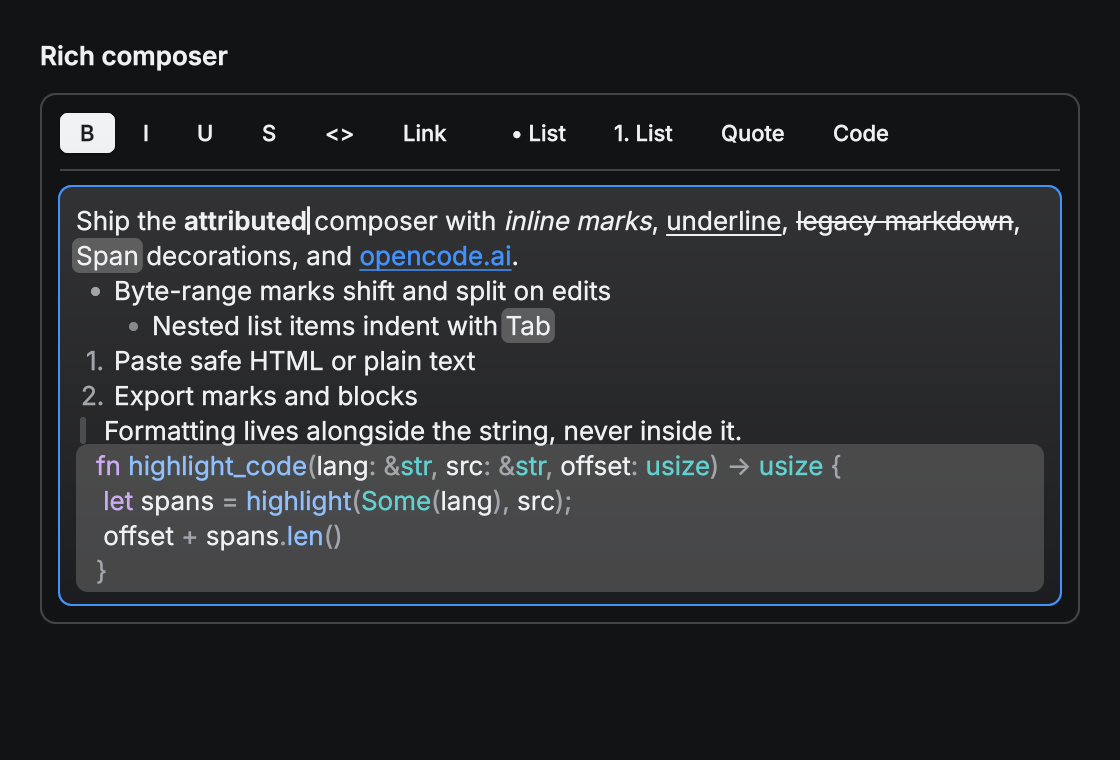
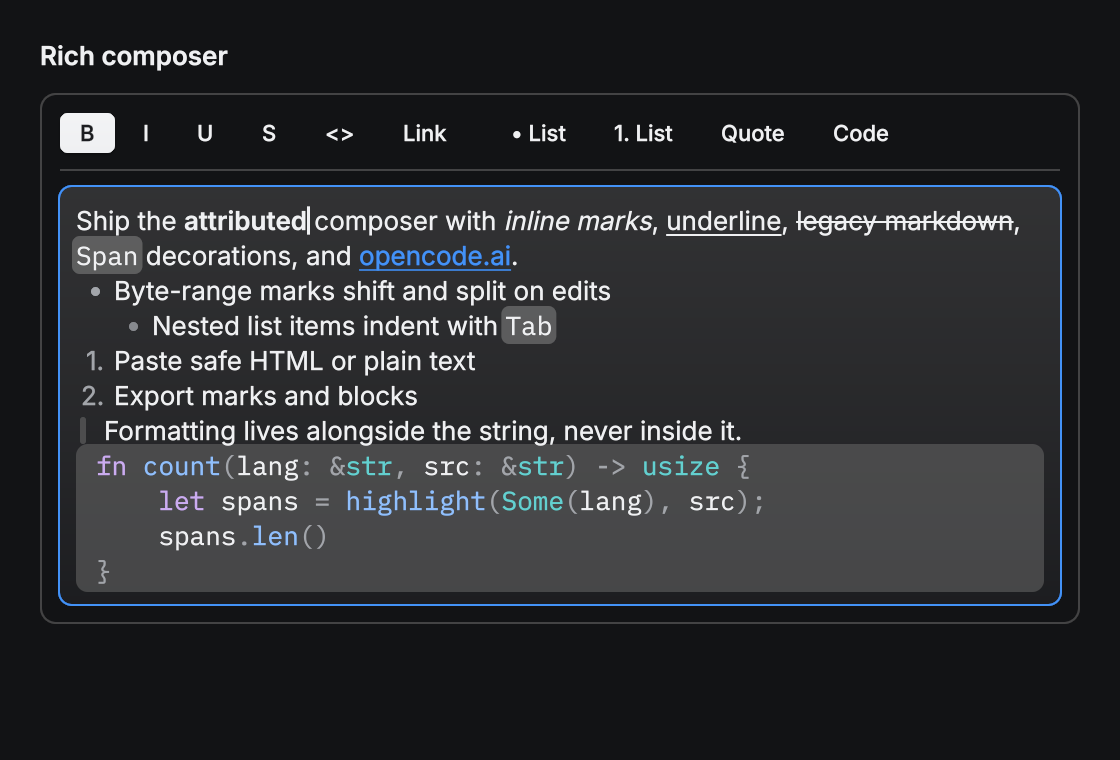
text: monospace code without ligatures, tabs to 4-column stops

diff --git a/crates/rune/src/text.rs b/crates/rune/src/text.rs
@@ -1078,6 +1078,43 @@ fn variations(style: TextStyle, size: f32) -> Vec<parley::FontVariation> {
     settings
 }
 
+/// The byte of each tab in monospace text (mono spans, or all of it in a mono style) with the
+/// columns it fills to reach the next 4-column stop. Columns count from the start of the line
+/// or of the monospace run, whichever is later.
+fn mono_tab_stops(text: &str, spans: &[Span], mono_style: bool) -> Vec<(usize, u32)> {
+    let mut regions: Vec<(usize, usize)> = if mono_style {
+        vec![(0, text.len())]
+    } else {
+        let mut r: Vec<_> = spans.iter().filter(|s| s.mono && s.start < s.end).map(|s| (s.start as usize, (s.end as usize).min(text.len()))).collect();
+        r.sort_unstable();
+        r
+    };
+    regions.dedup_by(|next, prev| {
+        let joined = next.0 <= prev.1;
+        if joined {
+            prev.1 = prev.1.max(next.1);
+        }
+        joined
+    });
+    let mut out = Vec::new();
+    for (start, end) in regions {
+        let Some(run) = text.get(start..end) else { continue };
+        let mut column = 0u32;
+        for (i, ch) in run.char_indices() {
+            match ch {
+                '\n' => column = 0,
+                '\t' => {
+                    let fill = 4 - column % 4;
+                    out.push((start + i, fill));
+                    column += fill;
+                }
+                _ => column += 1,
+            }
+        }
+    }
+    out
+}
+
 impl TextSystem {
     /// `fonts` replaces the built-in Inter faces when non-empty on native. Web keeps its
     /// bundled sans and mono fallbacks, since there are no system fonts to discover.
@@ -1234,8 +1271,11 @@ impl TextSystem {
         }
         self.shaped += 1;
         let _shape_time = crate::frame_profile::Scope::new(crate::frame_profile::Phase::Text);
+        let mono_style = matches!(style.family, Family::Mono | Family::SystemMono);
+        let tabs = if text.contains('\t') { mono_tab_stops(text, spans, mono_style) } else { Vec::new() };
         // Parley has no tab stops and fonts draw a tab as a missing glyph (or nothing): shape it
-        // as a space, one byte like the tab, so every byte range still holds.
+        // as a space, one byte like the tab, so every byte range still holds. Monospace tabs
+        // then widen to the next 4-column stop through word spacing.
         let spaced;
         let text = if text.contains('\t') {
             spaced = text.replace('\t', " ");
@@ -1345,7 +1385,11 @@ impl TextSystem {
         }
         let span_range = |s: &Span| (s.start as usize).min(text.len())..(s.end as usize).min(text.len());
         // `exact` overrides the predicted spacing with each run's own, by byte range.
-        let build = |lcx: &mut LayoutContext<Ink>, fcx: &mut FontContext, exact: &[(std::ops::Range<usize>, f32)]| {
+        // Code never takes ligatures (`->` stays two characters); later features override earlier.
+        let off = [b"liga", b"clig", b"calt"].map(|tag| parley::FontFeature::new(parley::setting::Tag::new(tag), 0));
+        let unligated: Vec<parley::FontFeature> = features.iter().chain(&off).copied().collect();
+        type Spacings = [(std::ops::Range<usize>, f32)];
+        let build = |lcx: &mut LayoutContext<Ink>, fcx: &mut FontContext, exact: &Spacings, widen: &Spacings| {
             let mut b = lcx.ranged_builder(fcx, text, scale, true);
             b.push_default(FontFamily::from(sans.as_slice()));
             b.push_default(StyleProperty::FontSize(style.size));
@@ -1356,7 +1400,9 @@ impl TextSystem {
             // Parley turns optional ligatures off under letter spacing; Core Text's tracking
             // keeps them, so spacing that only corrects `trak` turns them back on.
             let corrected = base_spacing != 0.0 || span_spacing.iter().flatten().chain(exact.iter().map(|e| &e.1)).any(|&v| v != 0.0);
-            if style.tracking == 0.0 && corrected {
+            if mono_style {
+                b.push_default(StyleProperty::FontFeatures(unligated.as_slice().into()));
+            } else if style.tracking == 0.0 && corrected {
                 let ligatures = [b"liga", b"clig"].map(|tag| parley::FontFeature::new(parley::setting::Tag::new(tag), 1));
                 let list = ligatures.iter().chain(&features).copied().collect();
                 b.push_default(StyleProperty::FontFeatures(parley::FontFeatures::List(std::borrow::Cow::Owned(list))));
@@ -1381,6 +1427,7 @@ impl TextSystem {
                 b.push(StyleProperty::Brush(Ink(i as u16 + 1)), r.clone());
                 if s.mono {
                     b.push(FontFamily::from(mono.as_slice()), r.clone());
+                    b.push(StyleProperty::FontFeatures(unligated.as_slice().into()), r.clone());
                 }
                 if let Some(w) = s.weight {
                     b.push(StyleProperty::FontWeight(FontWeight::new(w)), r.clone());
@@ -1404,6 +1451,9 @@ impl TextSystem {
             for (range, v) in exact {
                 b.push(StyleProperty::LetterSpacing(*v), range.clone());
             }
+            for (range, v) in widen {
+                b.push(StyleProperty::WordSpacing(*v), range.clone());
+            }
             let mut layout: Layout<Ink> = b.build(text);
             if has_indented_blocks {
                 break_lines_with_blocks(&mut layout, blocks, style.size, scale, max_width);
@@ -1412,7 +1462,7 @@ impl TextSystem {
             }
             layout
         };
-        let mut layout = build(&mut self.layout_cx, &mut self.font_cx, &[]);
+        let mut layout = build(&mut self.layout_cx, &mut self.font_cx, &[], &[]);
         // The spacing each run got, against the spacing its own font needs.
         let given = |at: usize| {
             spans.iter().zip(&span_spacing).rev().find_map(|(s, v)| v.filter(|_| span_range(s).contains(&at))).unwrap_or(base_spacing)
@@ -1435,8 +1485,23 @@ impl TextSystem {
                 }
             }
         }
-        if mismatch {
-            layout = build(&mut self.layout_cx, &mut self.font_cx, &exact);
+        if !mismatch {
+            exact.clear();
+        } else {
+            layout = build(&mut self.layout_cx, &mut self.font_cx, &exact, &[]);
+        }
+        if !tabs.is_empty() {
+            // A tab shaped as a space is one column wide; word spacing adds the rest of its stop.
+            let widen: Vec<_> = tabs
+                .iter()
+                .filter_map(|&(at, columns)| {
+                    let column = parley::Cluster::from_byte_index(&layout, at)?.advance();
+                    (column > 0.0 && columns > 1).then(|| (at..at + 1, (columns - 1) as f32 * column / scale))
+                })
+                .collect();
+            if !widen.is_empty() {
+                layout = build(&mut self.layout_cx, &mut self.font_cx, &exact, &widen);
+            }
         }
         layout.align(align, AlignmentOptions::default());
         let l = Rc::new(layout);
@@ -1858,8 +1923,62 @@ mod tests {
     fn a_tab_draws_as_a_space() {
         assert_eq!(glyph_ids("a\tb"), glyph_ids("a b"));
         let mut ts = TextSystem::default();
+        let sans = TextStyle::new(13.0, 400.0);
+        assert_eq!(ts.measure("\tx", sans, 2.0), ts.measure(" x", sans, 2.0));
+    }
+
+    /// In monospace text (a mono style or mono spans) a tab reaches the next 4-column stop,
+    /// counted from the line or the mono run, and stays one byte.
+    #[test]
+    fn mono_tabs_fill_to_four_column_stops() {
+        let mut ts = TextSystem::default();
         let mono = TextStyle::new(13.0, 400.0).family(Family::Mono);
-        assert_eq!(ts.measure("\tx", mono, 2.0), ts.measure(" x", mono, 2.0));
+        let width = |ts: &mut TextSystem, text: &str, spans: &[Span], style: TextStyle| ts.layout_rich(text, spans, style, 2.0, None).full_width();
+        for (tabbed, spaced) in [("\tx", "    x"), ("ab\tx", "ab  x"), ("abc\tx", "abc x"), ("abcd\tx", "abcd    x"), ("\t\tx", "        x"), ("  \tx", "    x")] {
+            let (a, b) = (width(&mut ts, tabbed, &[], mono), width(&mut ts, spaced, &[], mono));
+            assert!((a - b).abs() < 0.01, "{tabbed:?}: {a} vs {spaced:?}: {b}");
+        }
+        // A mono span counts from its own start, and from each line in it.
+        let sans = TextStyle::new(13.0, 400.0);
+        let span = |text: &str, from: usize| [Span::new(from, text.len()).mono()];
+        let (tabbed, spaced) = ("Run a\tb", "Run a   b");
+        let (a, b) = (width(&mut ts, tabbed, &span(tabbed, 4), sans), width(&mut ts, spaced, &span(spaced, 4), sans));
+        assert!((a - b).abs() < 0.01, "{a} vs {b}");
+        let layout = ts.layout_rich("x\n\ty", &span("x\n\ty", 0), sans, 2.0, None);
+        let y = parley::Cluster::from_byte_index(&layout, 3).unwrap();
+        let spaced = ts.layout_rich("x\n    y", &span("x\n    y", 0), sans, 2.0, None);
+        let y_spaced = parley::Cluster::from_byte_index(&spaced, 6).unwrap();
+        let x = |c: &parley::Cluster<'_, Ink>| c.visual_offset().unwrap_or_default();
+        assert!((x(&y) - x(&y_spaced)).abs() < 0.01, "{} vs {}", x(&y), x(&y_spaced));
+        // Proportional text keeps a tab one space wide.
+        assert_eq!(ts.measure("\tx", sans, 2.0), ts.measure(" x", sans, 2.0));
+    }
+
+    /// Monospace text never takes ligatures or contextual alternates: Inter draws `->` as an
+    /// arrow in prose, but code keeps both characters.
+    #[test]
+    fn mono_text_has_no_ligatures() {
+        let mut ts = TextSystem::default();
+        let ids = |ts: &mut TextSystem, text: &str, spans: &[Span], style: TextStyle| -> Vec<u32> {
+            let layout = ts.layout_rich(text, spans, style, 2.0, None);
+            layout
+                .lines()
+                .flat_map(|line| line.items())
+                .filter_map(|item| match item {
+                    PositionedLayoutItem::GlyphRun(run) => Some(run.glyphs().map(|g| g.id).collect::<Vec<_>>()),
+                    _ => None,
+                })
+                .flatten()
+                .collect()
+        };
+        let sans = TextStyle::new(13.0, 400.0);
+        let mono = sans.family(Family::Mono);
+        let apart: Vec<u32> = ["a", "-", ">", "b"].iter().flat_map(|c| ids(&mut ts, c, &[], mono)).collect();
+        assert_ne!(ids(&mut ts, "a->b", &[], sans), apart, "fixture: Inter's arrow in prose");
+        assert_eq!(ids(&mut ts, "a->b", &[], mono), apart);
+        assert_eq!(ids(&mut ts, "a->b", &[Span::new(0, 4).mono()], sans), apart);
+        // Under `trak` correction too, which turns optional ligatures back on for prose.
+        assert_eq!(ids(&mut ts, "a->b", &[Span::new(0, 4).mono().size(20.0)], sans), apart);
     }
 
     /// `Family::SystemMono` shapes with the platform's monospaced font when one is installed, so

diff --git a/crates/rune-kit/src/markdown.rs b/crates/rune-kit/src/markdown.rs
@@ -38,7 +38,7 @@ use std::ops::Range;
 use std::rc::Rc;
 
 use pulldown_cmark::{Alignment, CodeBlockKind, Event, HeadingLevel, Options, Parser, Tag, TagEnd};
-use rune::{Align, Color, El, Link, LinkPaint, Span, TextStyle, col, el, rich, row, text};
+use rune::{Align, Color, El, Family, Link, LinkPaint, Span, TextStyle, col, el, rich, row, text};
 
 use crate::{Kit, PaletteSeed};
 
@@ -1082,11 +1082,12 @@ fn margins(b: &Block) -> (f32, f32) {
     }
 }
 
-/// Code as rich text with `spans` (byte ranges of `code`). Text layout draws a tab as one space,
-/// so each tab is padded with uncopied spaces to the next four-column stop: lines line up and a
-/// copy still gets the tab.
-fn tabbed(code: &str, mut spans: Vec<Span>) -> El {
-    if !code.contains('\t') {
+/// Code as rich text with `spans` (byte ranges of `code`). Text layout widens tabs in a
+/// monospace `style` to four-column stops itself; in any other family it draws a tab as one
+/// space, so each tab is padded with uncopied spaces to the next stop: lines line up and a copy
+/// still gets the tab.
+fn tabbed(code: &str, mut spans: Vec<Span>, style: TextStyle) -> El {
+    if !code.contains('\t') || matches!(style.family, Family::Mono | Family::SystemMono) {
         return rich(code.to_owned(), spans);
     }
     let mut shown = String::with_capacity(code.len() + code.len() / 8);
@@ -1186,7 +1187,7 @@ impl Renderer {
 
     fn code(&self, code: &str, source: Option<&Source>) -> El {
         let s = &self.s;
-        let body = tabbed(code, self.syntax_spans(code, source)).font(s.code_block).color(s.text).reveal(self.reveal);
+        let body = tabbed(code, self.syntax_spans(code, source), s.code_block).font(s.code_block).color(s.text).reveal(self.reveal);
         let frame = col().w_full().radius(6.0).fill(s.code_block_fill).border(0.5, s.code_block_border);
         if self.scroll_wide {
             // The text sizes to its longest line inside the viewport, which scrolls under the
@@ -1227,7 +1228,7 @@ impl Renderer {
                 .key(format!("l{n}"))
                 .w_full()
                 .px(12.0)
-                .child(self.select(tabbed(shown, Vec::new()).font(s.code_block).color(color).wrap().reveal(self.reveal).w_full()));
+                .child(self.select(tabbed(shown, Vec::new(), s.code_block).font(s.code_block).color(color).wrap().reveal(self.reveal).w_full()));
             if let Some(t) = tint {
                 r = r.fill(t);
             }

diff --git a/crates/rune-kit/examples/rich_editor.rs b/crates/rune-kit/examples/rich_editor.rs
@@ -25,9 +25,9 @@ impl Default for State {
             "</ul>",
             "<ol><li>Paste safe HTML or plain text</li><li>Export marks and blocks</li></ol>",
             "<blockquote>Formatting lives alongside the string, never inside it.</blockquote>",
-            "<pre><code>fn highlight_code(lang: &amp;str, src: &amp;str, offset: usize) -&gt; usize {\n",
+            "<pre><code>fn count(lang: &amp;str, src: &amp;str) -&gt; usize {\n",
             "\tlet spans = highlight(Some(lang), src);\n",
-            "\toffset + spans.len()\n",
+            "\tspans.len()\n",
             "}</code></pre>",
         );
         let mut edit = TextEdit::from_html(html);
@@ -148,5 +148,15 @@ fn view(s: &State, _: &mut Cx<State>) -> El {
 }
 
 fn main() {
-    rune::run(AppSpec::new("Rich editor", (560.0, 380.0), State::default, view));
+    // Code marks and code blocks draw in the mono slot.
+    rune::run(AppSpec {
+        fonts: &[
+            include_bytes!("../../rune/assets/Inter-Regular.ttf"),
+            include_bytes!("../../rune/assets/Inter-Medium.ttf"),
+            include_bytes!("../../rune/assets/Inter-SemiBold.ttf"),
+            include_bytes!("../../rune/assets/IBMPlexMono-Regular.ttf"),
+        ],
+        families: ("Inter", "IBM Plex Mono"),
+        ..AppSpec::new("Rich editor", (560.0, 380.0), State::default, view)
+    });
 }

diff --git a/crates/rune/README.md b/crates/rune/README.md
@@ -731,6 +731,11 @@ fallbacks. `Family::Sans`, `Family::Mono`, and `.mono()` keep their existing mea
 mono rich spans still use the mono slot. Named styles remain `Copy` and const-friendly
 and the family name participates in the layout cache key.
 
+Monospace text (mono rich spans, `Family::Mono` and `Family::SystemMono`) turns off `liga`,
+`clig` and `calt`, so `->` and `!=` stay two characters, and a tab in it advances to the next
+4-column stop, counted from the line or the mono span's start. A tab stays one byte, so byte
+ranges, carets and copies are unchanged; elsewhere a tab is one space wide.
+
 `.family(Family::SystemMono)` uses the platform's monospaced UI font without bundling it:
 SF Mono on macOS (the face AppKit's `monospacedSystemFont` returns, matched to within
 0.05 pt per glyph at 8 to 34 pt), Cascadia Mono, then Consolas, on Windows, and whatever
@@ -934,8 +939,10 @@ newline on `Shift+Return` and pastes plain text. The mark and block methods work
   - `Tab` and `Shift+Tab` inside a list item indent or outdent its nesting level instead of moving
     focus.
   - Inside `Block::Code`, `Return` elsewhere inserts a newline (never submits), inline marks do not apply,
-    and a typed or pasted `\t` inserts a literal tab byte that advances by one space (matching core
-    text's tab shaping while preserving exact byte offsets and copy/paste).
+    and a typed or pasted `\t` inserts a literal tab byte that advances to the next 4-column stop
+    (one byte, so offsets and copy/paste keep the tab).
+  - Code blocks and `Mark::Code` runs draw in the mono slot (name a monospaced family in
+    `AppSpec::families`; the default is Inter) without ligatures.
 - **Per-frame decorations** (`.spans(spans)` / `.decorations(spans)` on `text_input`, `TextInput`
   and `TextArea`): paint caller-supplied `rune::Span`s (such as `SyntaxTheme::from_kit(&k).spans(&ranges, offset)`
   from `rune_kit::syntax::highlight`) over the editor without mutating `TextEdit`. Byte offsets are

diff --git a/CHANGELOG.md b/CHANGELOG.md
@@ -5,6 +5,15 @@ without a code change (goldens, layout, input), newest first, with the rev that 
 
 ## dev
 
+- **Monospace text has no ligatures, and its tabs reach 4-column stops.** Mono rich spans
+  (`Span::mono`, so `Mark::Code` and `Block::Code` in a rich `TextEdit`, and Markdown inline
+  code) and `Family::Mono`/`Family::SystemMono` styles turn off `liga`, `clig` and `calt`:
+  Inter in the mono slot drew `->` as an arrow. A tab in monospace text now advances to the
+  next 4-column stop (counted from the line or the mono span's start) instead of one space;
+  it stays one byte. Markdown code no longer pads tabs with uncopied spaces when its style is
+  mono, since layout does it. Goldens with tabs or `->`-style pairs in mono text move. Code in
+  a rich editor uses the mono slot, which is Inter unless `AppSpec::families` names a
+  monospaced family; the `rich_editor` example now embeds IBM Plex Mono.
 - **Effect slots (`El::effect`) at a zoom scale, under rounded clips, with per-slot backdrops (`El::effect_backdrop`), and in `srgb_blend` frames.**
   `KIND_EFFECT` (`instance.params[3]`) and `EffectSite::scale` now carry the device pixels per point
   at the slot (`sc * s`, combining the window's Retina factor with inherited `scale`, `press_scale`,
